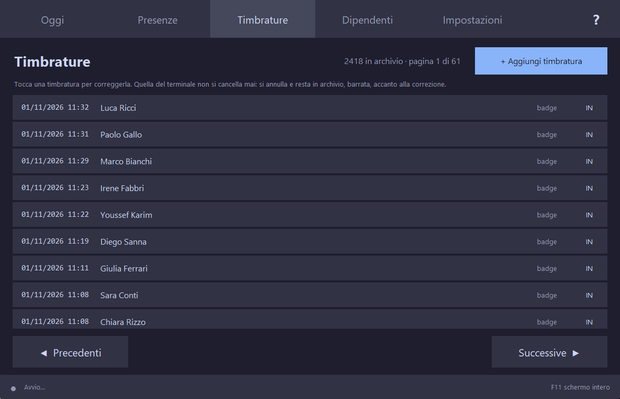
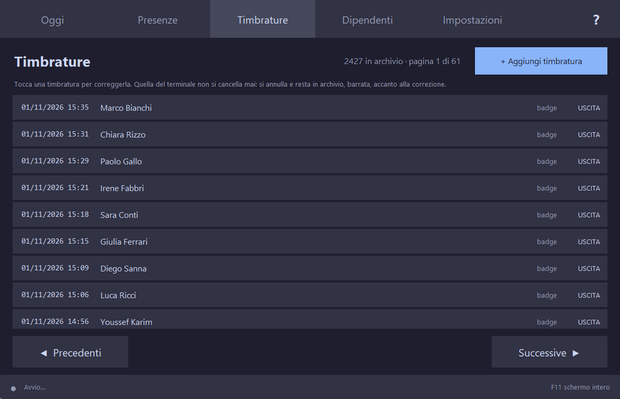
Timbrature: ENTRATA/USCITA come le conta TIMBRA, non il tasto del terminale
Il tasto resta dove l'ha lasciato l'ultimo: in sede tutte le righe
dicevano "stato 1". Ora la colonna mostra il verso usato nel conteggio
delle ore, e "doppione" per quelle scartate.

Claude-Session: https://claude.ai/code/session_015FxNJ4qZnrQaWgejZTFHgg

diff --git a/gestione.py b/gestione.py
@@ -2735,6 +2735,32 @@ class SchermataTimbrature(Schermata):
         Bottone(piede, "Successive  ▶", self._successiva,
                 larghezza=220).pack(side="right")
 
+    def _versi(self, db, righe) -> dict[str, str]:
+        """ENTRATA / USCITA / doppione per le timbrature della pagina."""
+        giorni = []
+        for riga in righe:
+            try:
+                giorni.append(dt.datetime.fromisoformat(riga[3]).date())
+            except (TypeError, ValueError):
+                pass
+        if not giorni:
+            return {}
+        versi = {}
+        try:
+            for g in presenze.giornate(db, self.app.regole,
+                                       min(giorni) - dt.timedelta(days=1),
+                                       max(giorni)):
+                for t in g.turni:
+                    for p in (t.entrata, t.uscita):
+                        if p is not None and p.evento_id and p.verso:
+                            versi[p.evento_id] = p.verso.upper()
+                for p in g.scartati:
+                    if p.evento_id and (p.scartato or "").startswith("doppione"):
+                        versi[p.evento_id] = "doppione"
+        except Exception:                                        # noqa: BLE001
+            pass          # meglio una colonna vuota che la schermata rotta
+        return versi
+
     def _precedente(self):
         if self.pagina > 0:
             self.pagina -= 1
@@ -2754,6 +2780,7 @@ class SchermataTimbrature(Schermata):
             righe = list(db.execute(
                 f"{self.ELENCO} ORDER BY 4 DESC LIMIT ? OFFSET ?",
                 (self.PER_PAGINA, self.pagina * self.PER_PAGINA)))
+            versi = self._versi(db, righe)
         finally:
             db.close()
 
@@ -2770,16 +2797,19 @@ class SchermataTimbrature(Schermata):
                      fg=TESTO_TENUE, font=F_GRANDE).pack(pady=50)
             return
 
-        stati = self.app.stati_ta or {0: "IN", 1: "OUT"}
         for voce in righe:
             origine, evento, codice, quando, metodo, stato, verso, \
                 annullata, motivo = voce
+            # Entrata o uscita come le conta TIMBRA, non il tasto del
+            # terminale: quello resta dove l'ha lasciato l'ultimo, e
+            # "stato 1" su tutte le righe non diceva niente a nessuno.
+            accanto = versi.get(evento) or (verso or "—").upper()
             if annullata:
                 colore, accanto = TESTO_TENUE, "annullata"
             elif origine == "mano":
-                colore, accanto = BLU, (verso or "?").upper()
+                colore = BLU
             else:
-                colore, accanto = TESTO, stati.get(stato, f"stato {stato}")
+                colore = TESTO
             riga = tk.Frame(self.lista.interno, bg=CARD)
             riga.pack(fill="x", pady=2, padx=8, ipady=10)
             pezzi = [
